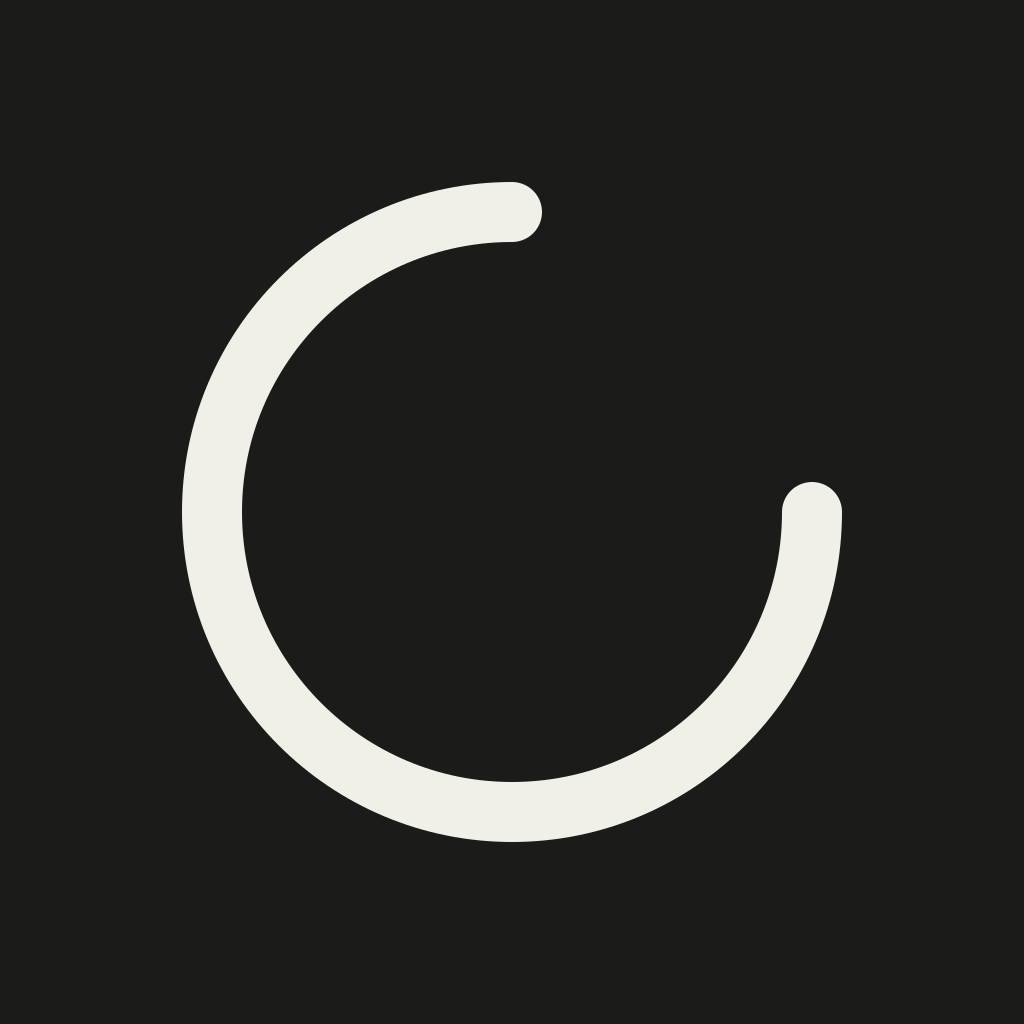
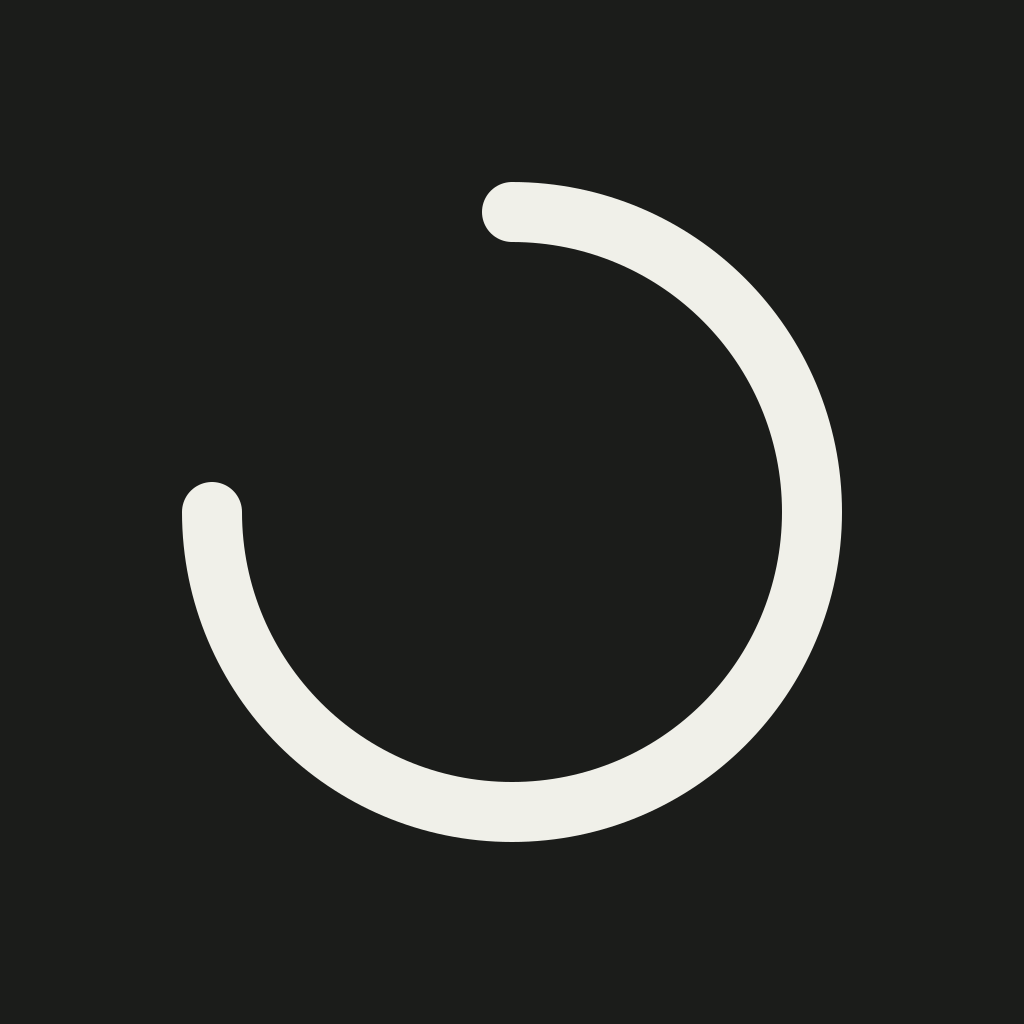
fix(brand): align OPEN CIRCLE with the remaining-time ring

Changed region(s): [[0.1562, 0.1562, 0.8438, 0.5]]

diff --git a/src/components/home/open-circle.tsx b/src/components/home/open-circle.tsx
@@ -1,12 +1,12 @@
 import { View } from 'react-native';
 import Svg, { Path } from 'react-native-svg';
 
-/** Fixed OPEN CIRCLE direction (U08); independent of time, progress and loading. */
+/** Fixed upper-left gap (U08), aligned with the 75% time ring; never animated. */
 export function OpenCircle({ color, size = 32 }: { color: string; size?: number }) {
   return (
     <View accessible={false} accessibilityElementsHidden importantForAccessibility="no-hide-descendants">
     <Svg width={size} height={size} viewBox="0 0 40 40" aria-hidden>
-      <Path d="M 20 5 A 15 15 0 1 0 35 20" fill="none" stroke={color} strokeWidth={3} strokeLinecap="round" />
+      <Path d="M 20 5 A 15 15 0 1 1 5 20" fill="none" stroke={color} strokeWidth={3} strokeLinecap="round" />
     </Svg>
     </View>
   );

diff --git a/docs/qa/open-circle-direction/README.md b/docs/qa/open-circle-direction/README.md
@@ -1,0 +1,32 @@
+# OPEN CIRCLEの向きを残量リングへ揃える
+
+2026-11-20 JST / #251。本人が左上の開きへの統一を承認。元の比較ボードでは右上が開いていたが、残量75%の時間リングに合わせ、通常/Darkアイコンとヘッダーロゴを左右反転した。
+
+![Light/Darkでの向きの比較](comparison.png)
+
+上段Light、下段Dark。左から変更前のアイコン、新アイコン、ヘッダーマーク28/40px、残量75%のリング。**これはSVG素材の比較画像で、アプリ/Simulator/実機のスクリーンショットではない。**
+
+- 変更前はbase `48170566fbb4ff78014255d267b33c31da0e3489` のSVG。
+- 新アイコンは現SVG原本をコンパイル。ヘッダーの列はOpenCircleの実パスを28/40pxで描画。
+- 右端はPeriodRingと同じviewBox224・半径104・線幅3、12時起点の時計回りのdash array、残量0.75の式で描画した模式図。実コンポーネントのUI検証ではない。
+- アイコン/ヘッダーは `M 20 5 A 15 15 0 1 1 5 20`。12時→右→下→左の270度の弧になり、開きは左上。マークは固定で、時間によって変化しない。
+- iconにはtext色、header/ringにはaccent色を使い、既存のGraphiteの役割を維持。
+
+## 確認結果
+
+- Light/Dark SVGとOpenCircleのパス一致。
+- 生成PNGは1024×1024・sRGB・RGB/不透明。北西の円弧上が背景、北東の円弧上が描画色であることも画素で確認。
+- 比較画像と原寸PNGを目視。28/40pxでも開きが残る。
+- 一時コピーでScreen Time opt-inの `expo prebuild --platform ios --no-install` を実行。AppIcon asset catalogの通常/Dark画像は元PNGと全画素一致。Darkの生成画像にalphaチャンネルはあるが全255。
+- Debug/Releaseとも `ASSETCATALOG_COMPILER_APPICON_NAME = AppIcon`。初期expo.iconへの参照なし。
+- 既存のPeriodRing/残時間計算に差分なし。
+- 型/lint/Jest（29 suites / 280 tests）/demo tooling（32 tests）PASS。
+- expo-doctorは18/20。exp.host/React Native Directoryの外部接続に失敗。SDK58公式資料の取得も環境proxy403。今回のアセット生成とCNG確認はインストール済みSDKで実行。
+
+ソースhash・PNG hashとCNG結果は[assets.json](assets.json)。PNG再生成は[ブランド資料](../../brand/README.md#端末ビルド用アセット)のコマンドを使用。npm依存・app config・native実装を変更していない。
+
+## 未検証と端末への反映
+
+Linux / Node24 / Expo58での素材・CNG確認まで。Xcode build、Simulator/iPhoneの表示、実際のiOSマスク/Tinted、VoiceOver、archiveは未検証。今回、文字・操作・読み上げ属性・モーションの変更はないが、画像の確認からnative合格とはしない。残る実機/ストア用画像のゲートは親#184で管理する。
+
+マージ後、従来の署名・Screen Time/App Groupの環境を維持してprebuild・端末向けに再ビルドし、新しいnative binaryをインストールする。Expo Go/Metroリロード/OTAだけでOSホームのアイコンは置き換わらない。mainマージ、署名、配布、デモ再配信はこの作業で行っていない。

diff --git a/docs/ui-guidelines.md b/docs/ui-guidelines.md
@@ -21,7 +21,7 @@
 | U05 | 本人要望 | 時間の情報を上部の円に集約。下部に同じ開始・終了のバーを重ねない |
 | U06 | 本人合意・反映依頼 | 時間に連動する円弧、要所の控えめなアクセント、短い操作応答を加える。常時装飾・操作待ちを加えず、Reduce Motion/静止時も情報と結果を保つ |
 | U07 | 本人選択・反映依頼 | 05「墨と白」をLight/Dark共通の基本配色にする。B案の構成と動きを保ち、目的の引用面にほのかな温かみを残す。§6.1/6.4の値を実装時の基準にする |
-| U08 | 本人選択 | 砂時計比較後も円形残り時間を継続し、ロゴは01「OPEN CIRCLE」とする。固定ロゴと時間で変化するリングを分離する。[ブランド方針](brand/README.md)に端末ビルド用アセットと検証境界を記載。実機確認とは分ける |
+| U08 | 本人選択 | 砂時計比較後も円形残り時間を継続し、ロゴは01「OPEN CIRCLE」とする。2026-11-20の本人指定でアイコン/ヘッダーロゴの開きを左上へ統一（残量75%の弧に対応）。ロゴ自体は固定し、残量リングの動作は変えない。[ブランド方針](brand/README.md)参照。実機確認とは分ける |
 | P01 | 推奨・採用待ち | 初版の1回の解除は**単一アプリ選択**とする。#36の対象1つにつき1grantと接続しやすい。複数同時確定はP04まで採用しない |
 | P02 | 推奨・採用待ち | ホームは有効なルールの区間ごとに状態をまとめ、各円にルール名を付ける。複数ルールに単一の「全体の残り時間」を捏造しない |
 | P03 | 実装基準の提案 | 以下の寸法・文字階層・部品契約・テストID・情報順を採用する。既存実装の移行が必要 |

diff --git a/docs/brand/README.md b/docs/brand/README.md
@@ -4,9 +4,19 @@
 
 ## 選択した図案
 
-下の候補ボードの左上「01 OPEN CIRCLE」を参照する。右上に開きのある円と、丸い線端が特徴。画像は会話で提示した元の比較資料であり、配布用の完成アセットではない。
+下の候補ボードの左上「01 OPEN CIRCLE」を参照する。開きのある円と、丸い線端が特徴。ボードは当初の右上の開きを持つ比較資料であり、配布用の完成アセットではない。**現在のアイコンとヘッダーロゴは、下記の本人指定に従い左上を開く。**
 
 ![候補01は左上のOPEN CIRCLE](icon-logo-study-01-04.png)
+
+### 開きの向き（2026-11-20の本人指定）
+
+[Issue #251](https://github.com/kzk-maeda/itoma/issues/251)。本人がアイコンと時間リングの向きの不一致を指摘し、アイコンとヘッダーロゴを左右反転する修正を承認した。
+
+- 時間リングは12時から時計回りに残量を描く。残り75%なら弧の終点は9時、開きは左上。残量が減ると先端は反時計回りに戻る。
+- アイコンと固定ロゴも12時→右→下→左の270度の弧とし、左上を開く。40×40座標のパスは `M 20 5 A 15 15 0 1 1 5 20`。
+- 開きの位置・量は固定。時間によってブランドマークを変化させない。残り時間の計算・動く向き・モーションは変更しない。
+
+向きの比較は[検証資料](../qa/open-circle-direction/README.md)を参照する。初期ボードや過去の画面証跡は当時の記録として残し、現在の向きの正本にはしない。
 
 ## 実装への接続
 

diff --git a/DESIGN.md b/DESIGN.md
@@ -90,7 +90,7 @@ B案の構成・余白・控えめな動きを維持し、**基本配色は05「
 
 ## ブランド表現: アプリアイコン
 
-本人が選択した方向は、**サークルUIとロゴ候補01「OPEN CIRCLE」**。右上に開きのある円で「余白」「自分の時間」を表す。砂時計案との比較を経て、残り時間は元の円形表示を継続する。配色は05「墨と白」。選択した形と実装上の区別は [ブランド方針](docs/brand/README.md) を参照する。
+本人が選択した方向は、**サークルUIとロゴ候補01「OPEN CIRCLE」**。開きのある円で「余白」「自分の時間」を表す。2026-11-20の本人指定により、アプリの残量リングが75%のときの形へ揃え、アイコンとヘッダーロゴは左上を開く。初期比較ボードの右上の開きから左右反転したもので、線幅・開きの量・配色05「墨と白」は保つ。砂時計案との比較を経て、残り時間は元の円形表示を継続する。詳細は [ブランド方針](docs/brand/README.md) を参照する。
 
 ロゴは開きの位置と形を固定し、残り時間で欠け方を変えない。画面内の時間リングは期限に連動し、残り時間と終了時刻を文字でも示す。ロゴを進捗や読込状態として動かさず、時間リングをブランドの固定図形で代用しない。
 
